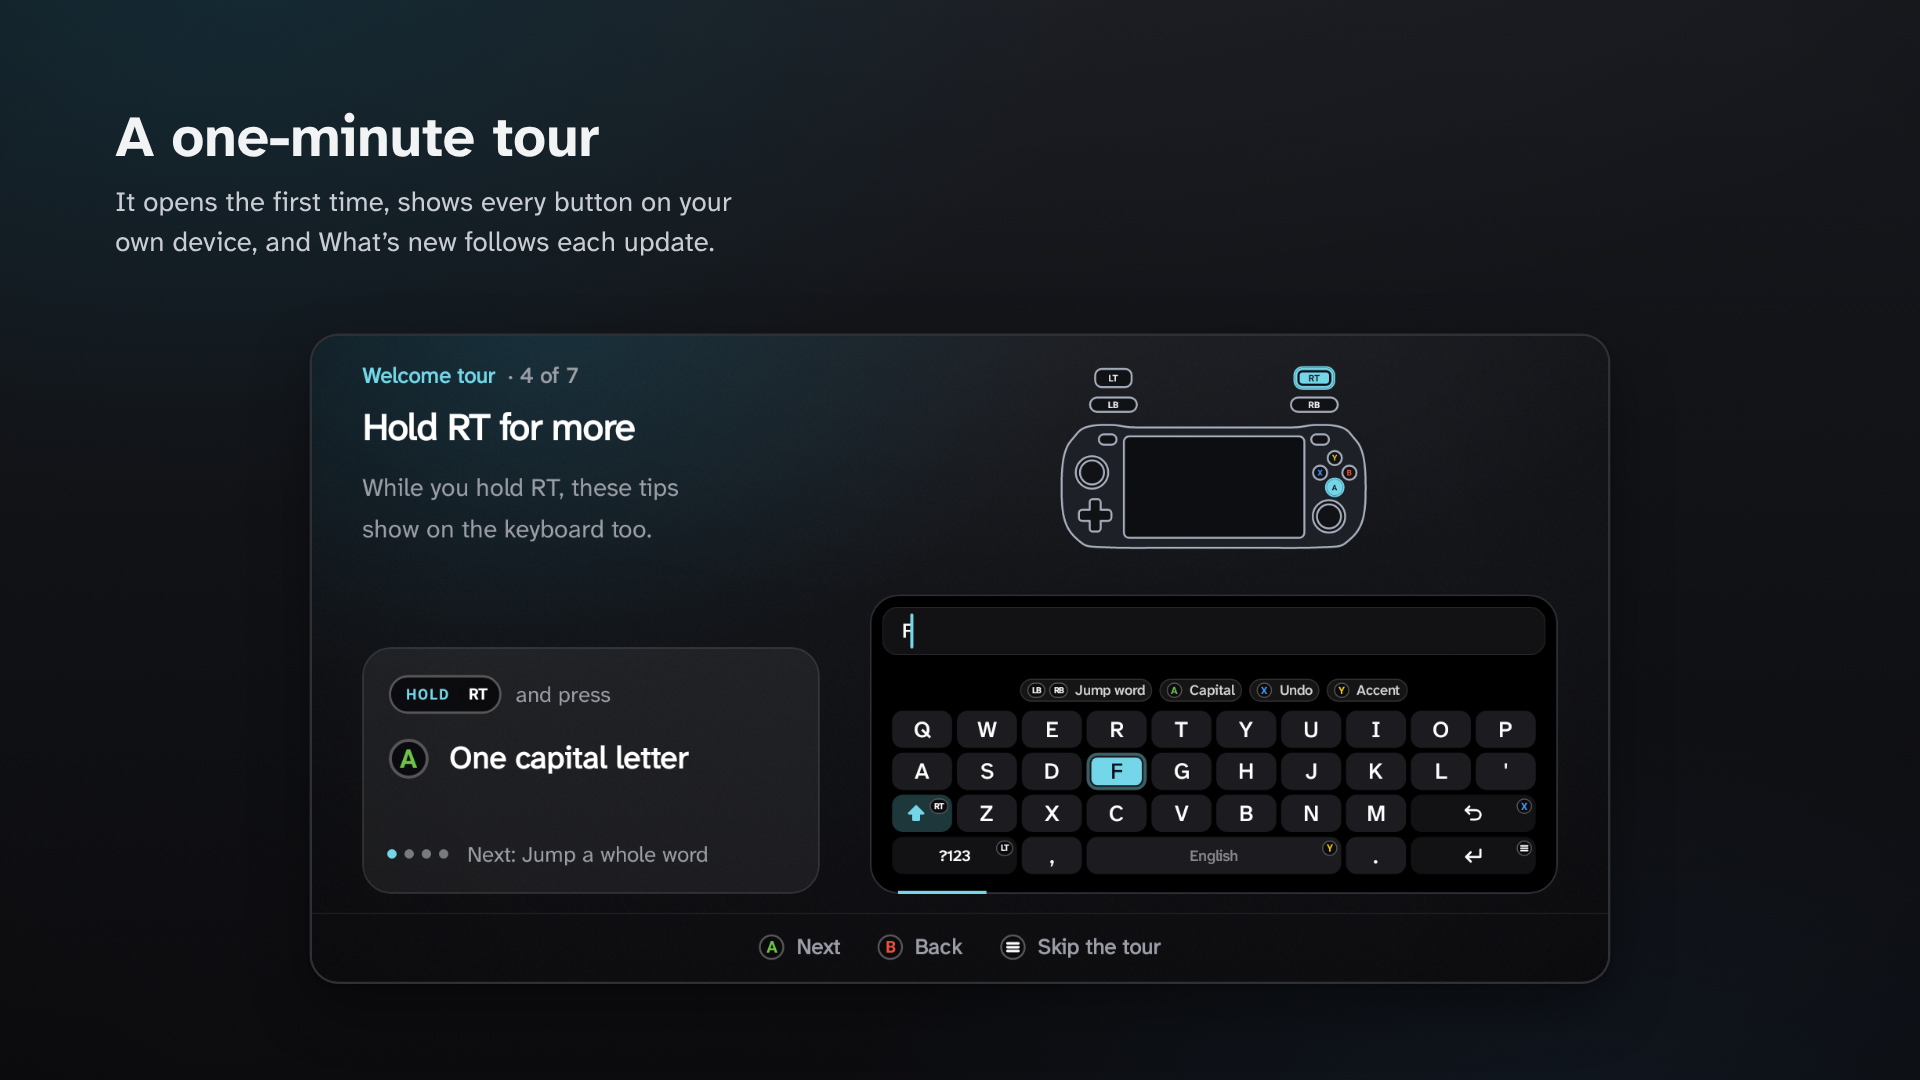
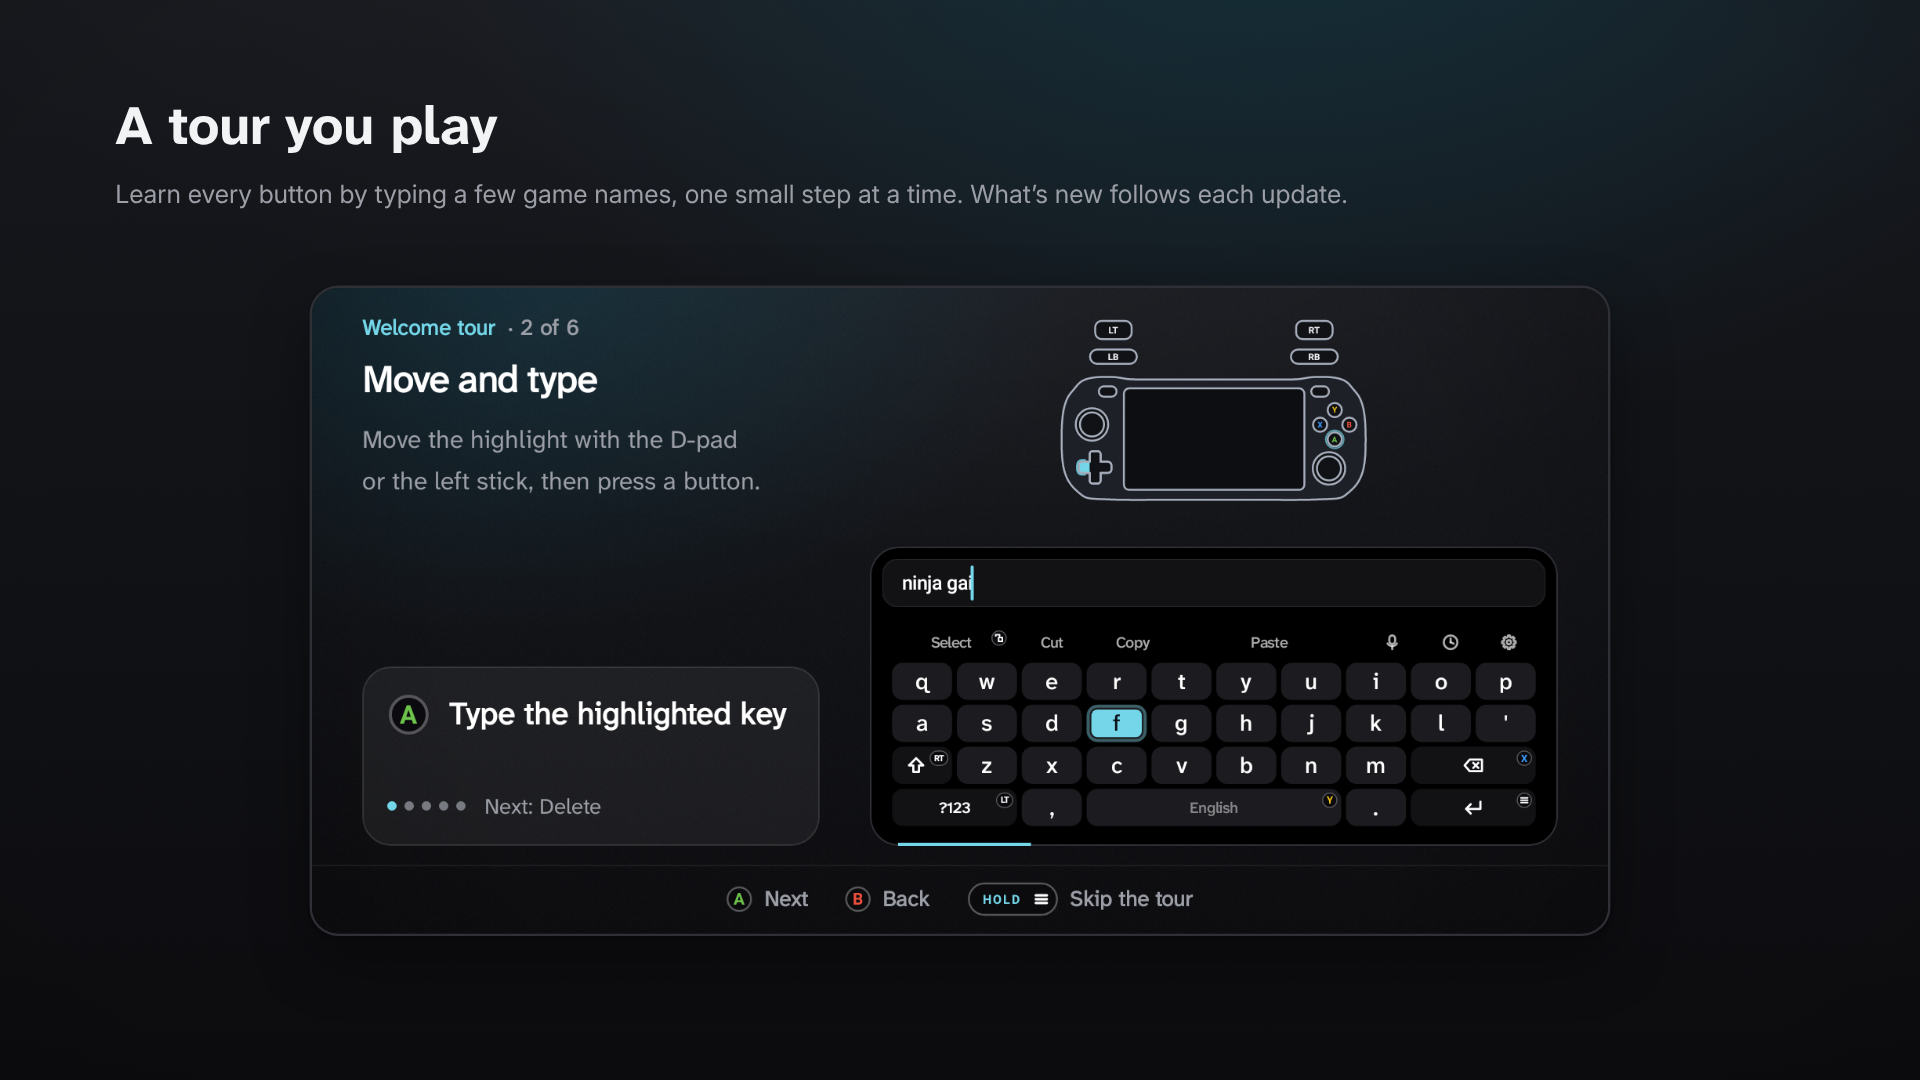
README pictures and the Your buttons spark for updaters

diff --git a/app/src/test/java/com/example/gridime/VisualsExport.kt b/app/src/test/java/com/example/gridime/VisualsExport.kt
@@ -42,8 +42,9 @@ class VisualsExport {
             showHints = true, comboHints = true, wordSuggestions = true, holdAccents = true))
 
     /** A keyboard [widthDp] wide in the state [setup] puts it in. */
-    private fun kb(name: String, s: KeyboardSettings, widthDp: Int = 640, setup: KeyGridView.() -> Unit = {}) {
+    private fun kb(name: String, s: KeyboardSettings, widthDp: Int = 640, split: Boolean = false, setup: KeyGridView.() -> Unit = {}) {
         val v = KeyGridView(context)
+        v.allowSplit = split
         v.applySettings(s)
         v.setField(FieldKind.TEXT)
         v.listener = object : KeyGridView.Listener {
@@ -171,6 +172,9 @@ class VisualsExport {
         kb("kb-clips", x) { setClips(listOf("conker live and reloaded", "jet set radio future", "github.com/dakingeman/inlay", "ninja gaiden")); toggleClips() }
         kb("kb-numrow", base { it.copy(numberRow = true) }) { walkTo("2") }
         kb("kb-tidy", x) { walkTo(".") }
+        // 1.3: the split keyboard at a wide handheld's width, and quick symbols (LT held, A held on € for its relatives)
+        kb("kb-split", base { it.copy(split = true) }, widthDp = 827, split = true) { walkTo("g") }
+        kb("kb-symbols", x) { walkTo("e"); quickLayerStart(); focusLabelNow("&") }
         kb("kb-tv", base { it.copy(tvMode = TvMode.ON) }, widthDp = 520) { setTvMode(true); walkTo("h"); setPreview("stranger t", "", "") }
         // Looks
         kb("look-light", base { it.copy(toneIndex = 8) }) { walkTo("g") }
@@ -200,6 +204,8 @@ class VisualsExport {
         pic("pic-select", w, ButtonStyle.XBOX, held = setOf("SELECT", "RB"))
         pic("pic-tidy", w, ButtonStyle.XBOX, held = setOf("A"))
         pic("pic-numrow", w, ButtonStyle.XBOX, held = setOf("Dup"))
+        pic("pic-split", w, ButtonStyle.XBOX, held = setOf("A"))
+        pic("pic-symbols", w, ButtonStyle.XBOX, held = setOf("LT", "A"), holding = setOf("LT"))
         pic("pic-tv", DeviceKind.REMOTE, ButtonStyle.XBOX, held = setOf("A"))
         pic("dev-controller", DeviceKind.CONTROLLER, ButtonStyle.XBOX, held = setOf("A"))
         pic("dev-wide", w, ButtonStyle.PLAYSTATION, held = setOf("A"))
@@ -279,6 +285,16 @@ class VisualsExport {
         val tour = org.robolectric.Robolectric.buildActivity(TutorialActivity::class.java).setup().get()
         idle(2500); press(tour, android.view.KeyEvent.KEYCODE_BUTTON_A); press(tour, android.view.KeyEvent.KEYCODE_BUTTON_A); press(tour, android.view.KeyEvent.KEYCODE_BUTTON_A)
         idle(2600); save(tour.window.decorView, "screen-tour-holdrt")
+        // 1.3: the new tour as it opens (the first turn: a capital Z for Zelda), and the button setup half-way
+        KeyboardSettings(tutorialDone = false, whatsNewSeen = WhatsNew.VERSION, buttonStyle = ButtonStyle.XBOX, picture = PictureChoice.HANDHELD).save(context)
+        val tour13 = org.robolectric.Robolectric.buildActivity(TutorialActivity::class.java).setup().get()
+        idle(2500); press(tour13, android.view.KeyEvent.KEYCODE_BUTTON_A); idle(4000); save(tour13.window.decorView, "screen-tour13")
+        val host = org.robolectric.Robolectric.buildActivity(android.app.Activity::class.java).setup().get()
+        val setupView = ButtonSetupView(host).apply { accent = TEAL }
+        host.actionBar?.hide(); host.setContentView(setupView); idle(800)
+        setupView.press(android.view.KeyEvent.KEYCODE_BUTTON_X); idle(900)
+        setupView.press(android.view.KeyEvent.KEYCODE_BUTTON_Y); idle(1600)
+        save(host.window.decorView, "screen-buttons")
     }
 
     /** Preview of the tour / What's new background in several highlight colours (presets and the slider). */

diff --git a/app/src/test/java/com/example/gridime/UpdaterButtonsSparkTest.kt b/app/src/test/java/com/example/gridime/UpdaterButtonsSparkTest.kt
@@ -1,0 +1,65 @@
+package com.example.gridime
+
+import android.os.Looper
+import org.junit.Assert.assertEquals
+import org.junit.Assert.assertTrue
+import org.junit.Test
+import org.junit.runner.RunWith
+import org.robolectric.Robolectric
+import org.robolectric.RobolectricTestRunner
+import org.robolectric.RuntimeEnvironment
+import org.robolectric.Shadows.shadowOf
+import org.robolectric.annotation.Config
+import java.time.Duration
+
+/**
+ * Updating to 1.3 (Emre, 8 Nov): people who had 1.2 may never hear of the button setup, so the Your buttons row
+ * carries the spark and says what's new until it's visited. Only for people updating with a controller: a new user
+ * (who just did the tour) and a TV remote get nothing.
+ */
+@RunWith(RobolectricTestRunner::class)
+@Config(sdk = [34], qualifiers = "w827dp-h412dp-land-xhdpi")
+class UpdaterButtonsSparkTest {
+    private val context get() = RuntimeEnvironment.getApplication()
+    private fun idle(ms: Long) = shadowOf(Looper.getMainLooper()).idleFor(Duration.ofMillis(ms))
+
+    @Suppress("UNCHECKED_CAST")
+    private fun rows(s: SettingsActivity) = SettingsActivity::class.java.getDeclaredField("focusableRows").apply { isAccessible = true }.get(s) as List<SettingRow>
+    private fun has(v: android.view.View, t: String): Boolean = (v is android.widget.TextView && v.text.toString().startsWith(t)) ||
+        (v is android.view.ViewGroup && (0 until v.childCount).any { has(v.getChildAt(it), t) })
+
+    private fun open(seen: String, pic: PictureChoice = PictureChoice.HANDHELD): Pair<SettingsActivity, SettingRow?> {
+        KeyboardSettings(tutorialDone = true, whatsNewSeen = seen, picture = pic).save(context)
+        val s = Robolectric.buildActivity(SettingsActivity::class.java).setup().get(); idle(800)
+        return s to rows(s).firstOrNull { has(it, ButtonRoles.ROW) }
+    }
+
+    @Test fun updaterSeesTheSpark() {
+        val (s, row) = open("1.2.0")
+        assertTrue("the Your buttons row is on Device", row != null)
+        assertTrue("it carries the spark", row!!.newMark)
+        assertTrue("and says what's new", has(row, "New: show Inlay your four face buttons"))
+        assertTrue("remembered", KeyboardSettings.load(context).buttonsRowNew)
+        // visited, then left: the spark goes for good
+        row.requestFocusFromTouch(); idle(300); rows(s).first { it !== row }.requestFocusFromTouch(); idle(300)
+        assertEquals(false, row.newMark)
+        assertEquals(false, KeyboardSettings.load(context).buttonsRowNew)
+    }
+
+    @Test fun newUserGetsNothing() {
+        val (_, row) = open(WhatsNew.VERSION)
+        assertEquals(false, row?.newMark ?: false)
+        assertEquals(false, KeyboardSettings.load(context).buttonsRowNew)
+    }
+
+    @Test fun remoteGetsNothing() {
+        val (_, row) = open("1.2.0", PictureChoice.REMOTE)
+        assertEquals(false, row?.newMark ?: false)
+        assertEquals(false, KeyboardSettings.load(context).buttonsRowNew)
+    }
+
+    @Test fun versions() {
+        assertTrue(WhatsNew.isBefore("1.2.0", 1, 3)); assertTrue(WhatsNew.isBefore("", 1, 3)); assertTrue(WhatsNew.isBefore("1.1.1", 1, 3))
+        assertEquals(false, WhatsNew.isBefore("1.3.0", 1, 3)); assertEquals(false, WhatsNew.isBefore("1.10.0", 1, 3)); assertEquals(false, WhatsNew.isBefore("2.0", 1, 3))
+    }
+}

diff --git a/docs/visuals-src/features.js b/docs/visuals-src/features.js
@@ -62,8 +62,15 @@ const FEATURES={
     content:()=>`<img class="abs shot m" src="renders/screen-look.png" style="left:260px;top:240px;width:1080px">`},
   'sound-packs':{layout:'top',title:'Nine sound packs',body:'Soft, Thock, Tactile, Typewriter, Felt, Chime, Glass, Pop and Retro, with vibration tuned so even small motors are felt.',
     content:()=>`<img class="abs shot m" src="renders/screen-soundpack.png" style="left:260px;top:240px;width:1080px">`},
-  tour:{layout:'top',title:'A one-minute tour',body:'It opens the first time, shows every button on your own device, and What\u2019s new follows each update.',
-    content:()=>`<img class="abs shot m" src="renders/screen-tour-holdrt.png" style="left:260px;top:240px;width:1080px">`},
+  tour:{layout:'top',title:'A tour you play',body:'Learn every button by typing a few game names, one small step at a time. What\u2019s new follows each update.',
+    content:()=>`<img class="abs shot m" src="renders/screen-tour13.png" style="left:260px;top:240px;width:1080px">`},
+  // 1.3.0 (8 Nov 2026)
+  split:{layout:'stage',textY:140,title:'Split keyboard',body:'Two halves, one under each thumb, with your app showing between them. Made for wide screens like the AYN Odin. Settings \u2192 Look.',
+    pic:'pic-split',screen:{kb:'renders/kb-split.png',kbAspect:2481/552,field:{before:'halo'}}},
+  buttons:{layout:'top',title:'Show Inlay your buttons',body:'Press your four face buttons once, then pick which one selects and which goes back. Any controller, swapped or not, each with its own setup.',
+    content:()=>`<img class="abs shot m" src="renders/screen-buttons.png" style="left:260px;top:240px;width:1080px">`},
+  symbols:{layout:'stage',textY:140,title:'Quick symbols',body:'Hold LT, press A on a symbol and let go: you\u2019re back on your letters. Hold A on a symbol for its relatives, like \u20ac for $ \u00a3 \u00a5.',
+    pic:'pic-symbols',screen:{kb:'renders/kb-symbols.png',kbAspect:1920/534,field:{before:'conker: live '}}},
   controls:{layout:'top',title:'Every button has a job',body:'Settings \u2192 Button guide shows the same list, in your controller\u2019s icons.',
     content:()=>badgeRows([['{A}','Type the highlighted key'],['{X}','Delete \u00b7 hold to speed up'],['{Y}','Space'],['{R2}','Shift \u00b7 tap twice for caps lock'],['{L2}','Symbols and numbers'],['{START}','Enter \u00b7 Search \u00b7 Go'],['{B}','Close the keyboard'],['hold {A}','Accents \u00b7 hold, then choose'],['{R3}','Take the first suggested word'],['{L3}','Keyboard size']],96,240,'Typing',null)
       +badgeRows([['{L1} {R1}','Move the text cursor'],['{R3} left or right','Move the cursor, faster the further'],['{R2} + {L1} {R1}','Jump a whole word'],['{SELECT}','Select text'],['{SELECTx2}','Select everything'],['{R2} + {A}','One capital letter'],['{R2} + {Y}','Accent the last letter'],['{R2} + {X}','Undo'],['{R2} + {L2}','Switch language']],700,240,'Editing and more',null)},

diff --git a/app/src/main/java/com/example/gridime/SettingsActivity.kt b/app/src/main/java/com/example/gridime/SettingsActivity.kt
@@ -138,6 +138,12 @@ class SettingsActivity : Activity() {
         feedback = Feedback(this).apply { update(settings) }
         SettingRow.buttonStyle = settings.shownButtonStyle
         SettingRow.sounds = feedback
+        // Updating from before 1.3 (Emre, 8 Nov): the button setup is new, and a Swap A/B and X/Y choice simply carried
+        // over, so people who wanted their own buttons may never hear of it. The Your buttons row (on Device, the page
+        // Settings opens on) carries the spark and says so until it's visited. Controllers only: a remote has no setup.
+        if (savedInstanceState == null && WhatsNew.shouldShow(settings) && WhatsNew.isBefore(settings.whatsNewSeen, 1, 3) && !controls.remote) {
+            settings = settings.copy(buttonsRowNew = true); KeyboardSettings.load(this).copy(buttonsRowNew = true).save(this)
+        }
         setupState = currentSetupState()
         setContentView(buildScreen().also { muteSystemSounds(it); SettingsStyle.useFont(it) })
         showPage(0, focusIndex = 0, animate = false)
@@ -254,7 +260,11 @@ class SettingsActivity : Activity() {
         val f = settings.face
         val newOne = lastFaceDevice >= 0 && ButtonRoles.isNewController(lastFaceDevice)
         val hint = if (newOne) "A new controller: show Inlay its buttons" else f.summary() + ". Press {A} to set up again"
-        return ActionRow(this, ButtonRoles.ROW, hint) { startSetup() }.apply { if (newOne) newMark = true }
+        val told = settings.buttonsRowNew && !newOne
+        return ActionRow(this, ButtonRoles.ROW, if (told) "New: show Inlay your four face buttons and pick which one types" else hint) { startSetup() }.apply {
+            if (newOne || told) newMark = true
+            if (told) onFound = { newMark = false; settings = settings.copy(buttonsRowNew = false); settings.save(this@SettingsActivity) }
+        }
     }
 
     /** The last controller a face button came from (so a new one can be offered its own setup). */
@@ -276,7 +286,7 @@ class SettingsActivity : Activity() {
     private fun finishSetup(result: FaceSetup?) {
         val v = setup ?: return
         setup = null
-        if (result != null) { update(settings.withFace(result, ButtonRoles.descriptor(setupDevice))); feedback.confirm() } else feedback.back()
+        if (result != null) { update(settings.withFace(result, ButtonRoles.descriptor(setupDevice)).copy(buttonsRowNew = false)); feedback.confirm() } else feedback.back()
         v.animate().alpha(0f).setDuration(Design.MOTION_FADE).withEndAction { (v.parent as? ViewGroup)?.removeView(v) }.start()
         val bringBack = keyboardWasUp; keyboardWasUp = false
         if (bringBack && !settings.showPreview) togglePreview()

diff --git a/app/src/main/java/com/example/gridime/KeyboardSettings.kt b/app/src/main/java/com/example/gridime/KeyboardSettings.kt
@@ -347,6 +347,7 @@ data class KeyboardSettings(
     val secretSoundShown: Boolean = false, // ...shown once already (it isn't marked again)
     val secretSoundRowNew: Boolean = false, // ...and the Sound pack row (where they are) hasn't been visited yet
     val secretRowNew: Boolean = false,    // ...and the Theme row (where they are) hasn't been visited yet
+    val buttonsRowNew: Boolean = false,   // updated from before 1.3: the Your buttons row carries the spark until visited
     val hasSticks: Boolean = true,        // worked out from the device, never saved (see Controls)
     // Sound & haptics
     val vibration: Boolean = true,
@@ -456,6 +457,7 @@ data class KeyboardSettings(
             .put(K_SECRET_ROW, secretRowNew)
             .put(K_RETRO, retroUnlocked).put(K_THEME_HL, themeHighlight).put(K_THEME_ICONS, themeIcons).put(K_THEME_STYLE, themeStyle).put(K_THEME_SOUND, themeSound)
             .put(K_LAST_INLAY, lastInlayTone).put(K_SOUND_NEW, secretSoundNew).put(K_SOUND_SHOWN, secretSoundShown).put(K_SOUND_ROW, secretSoundRowNew)
+            .put(K_BUTTONS_ROW, buttonsRowNew)
             .put(K_TV_MODE, tvMode.name)
             .put(K_TUTORIAL, tutorialDone)
             .put(K_WHATS_NEW, whatsNewSeen)
@@ -549,6 +551,7 @@ data class KeyboardSettings(
         private const val K_SOUND_NEW = "secret_sound_new"
         private const val K_SOUND_SHOWN = "secret_sound_shown"
         private const val K_SOUND_ROW = "secret_sound_row_new"
+        private const val K_BUTTONS_ROW = "buttons_row_new"
         private const val K_TV_MODE = "tv_mode"
         private const val K_TUTORIAL = "tutorial_done"
         private const val K_WHATS_NEW = "whats_new_seen"
@@ -696,6 +699,7 @@ data class KeyboardSettings(
                 themeSound = p.bool(K_THEME_SOUND, d.themeSound), lastInlayTone = p.int(K_LAST_INLAY, d.lastInlayTone),
                 secretSoundNew = p.bool(K_SOUND_NEW, d.secretSoundNew), secretSoundShown = p.bool(K_SOUND_SHOWN, d.secretSoundShown),
                 secretSoundRowNew = p.bool(K_SOUND_ROW, d.secretSoundRowNew),
+                buttonsRowNew = p.bool(K_BUTTONS_ROW, d.buttonsRowNew),
                 tutorialDone = p.bool(K_TUTORIAL, d.tutorialDone),
                 whatsNewSeen = p.str(K_WHATS_NEW) ?: d.whatsNewSeen,
                 keyShape = enumOr(p.str(K_SHAPE), d.keyShape),

diff --git a/docs/visuals-src/feature.html b/docs/visuals-src/feature.html
@@ -41,7 +41,7 @@ if(F.layout==='stage'){
 document.getElementById('c').innerHTML=H;
 // the picture renders have empty margins: trim the measured box to the drawing (see check)
 // README order: neighbours never share a corner or a motif
-const ORDER=['social','typing','words','accents','devices','hold','editing','tidy','looks','icons','tv-mode','languages','settings','sound-packs','tour','controls'];
+const ORDER=['social','typing','words','accents','devices','hold','editing','tidy','looks','icons','tv-mode','languages','settings','sound-packs','tour','controls','split','buttons','symbols'];
 document.fonts.ready.then(()=>Promise.all([...document.images].map(i=>i.decode().catch(()=>{})))).then(()=>{ if(F.after) F.after();
   inlayBackdrop(document.getElementById('c'), id, Math.max(0,ORDER.indexOf(id)), {motif:'none', grain: new URLSearchParams(location.search).get('grain')!=='0'});
   document.title='done'; });

diff --git a/app/src/main/java/com/example/gridime/WhatsNew.kt b/app/src/main/java/com/example/gridime/WhatsNew.kt
@@ -31,6 +31,12 @@ object WhatsNew {
     const val VERSION = "1.3.0"
 
     fun shouldShow(settings: KeyboardSettings) = settings.tutorialDone && settings.whatsNewSeen != VERSION
+    /** [seen] (a What's new version, like "1.2.0") is older than [major].[minor]. Empty (never seen) counts as older. */
+    fun isBefore(seen: String, major: Int, minor: Int): Boolean {
+        val p = seen.split('.').map { it.toIntOrNull() ?: 0 }
+        val a = p.getOrElse(0) { 0 }; val b = p.getOrElse(1) { 0 }
+        return a < major || (a == major && b < minor)
+    }
 
     /**
      * Android's "Remove animations" (accessibility) sets the animation speed to zero.

diff --git a/README.md b/README.md
@@ -43,6 +43,10 @@ https://github.com/user-attachments/assets/723c8fae-523f-497d-ab7a-cccda66b2d7c
 
 <p align="center"><img src="docs/images/pack/typing.png" alt="Move with the D-pad, press A" width="100%"></p>
 
+<p align="center"><img src="docs/images/pack/split.png" alt="Split keyboard" width="100%"></p>
+
+<p align="center"><img src="docs/images/pack/buttons.png" alt="Show Inlay your buttons" width="100%"></p>
+
 <p align="center"><img src="docs/images/pack/words.png" alt="Words show up as you type" width="100%"></p>
 
 <p align="center"><img src="docs/images/pack/accents.png" alt="Hold A for accents" width="100%"></p>
@@ -50,10 +54,12 @@ https://github.com/user-attachments/assets/723c8fae-523f-497d-ab7a-cccda66b2d7c
 <p align="center"><img src="docs/images/pack/devices.png" alt="Made for what you hold" width="100%"></p>
 
 <details>
-<summary><b>See all 14 screens</b></summary>
+<summary><b>See all 17 screens</b></summary>
 <br>
 
 <p align="center"><img src="docs/images/pack/hold.png" alt="Hold RT for more" width="100%"></p>
+
+<p align="center"><img src="docs/images/pack/symbols.png" alt="Quick symbols" width="100%"></p>
 
 <p align="center"><img src="docs/images/pack/editing.png" alt="Select, copy and paste" width="100%"></p>
 
@@ -69,7 +75,7 @@ https://github.com/user-attachments/assets/723c8fae-523f-497d-ab7a-cccda66b2d7c
 
 <p align="center"><img src="docs/images/pack/sound-packs.png" alt="Nine sound packs" width="100%"></p>
 
-<p align="center"><img src="docs/images/pack/tour.png" alt="A one-minute tour" width="100%"></p>
+<p align="center"><img src="docs/images/pack/tour.png" alt="A tour you play" width="100%"></p>
 
 <p align="center"><img src="docs/images/pack/settings.png" alt="Settings, made for the controller" width="100%"></p>
 
